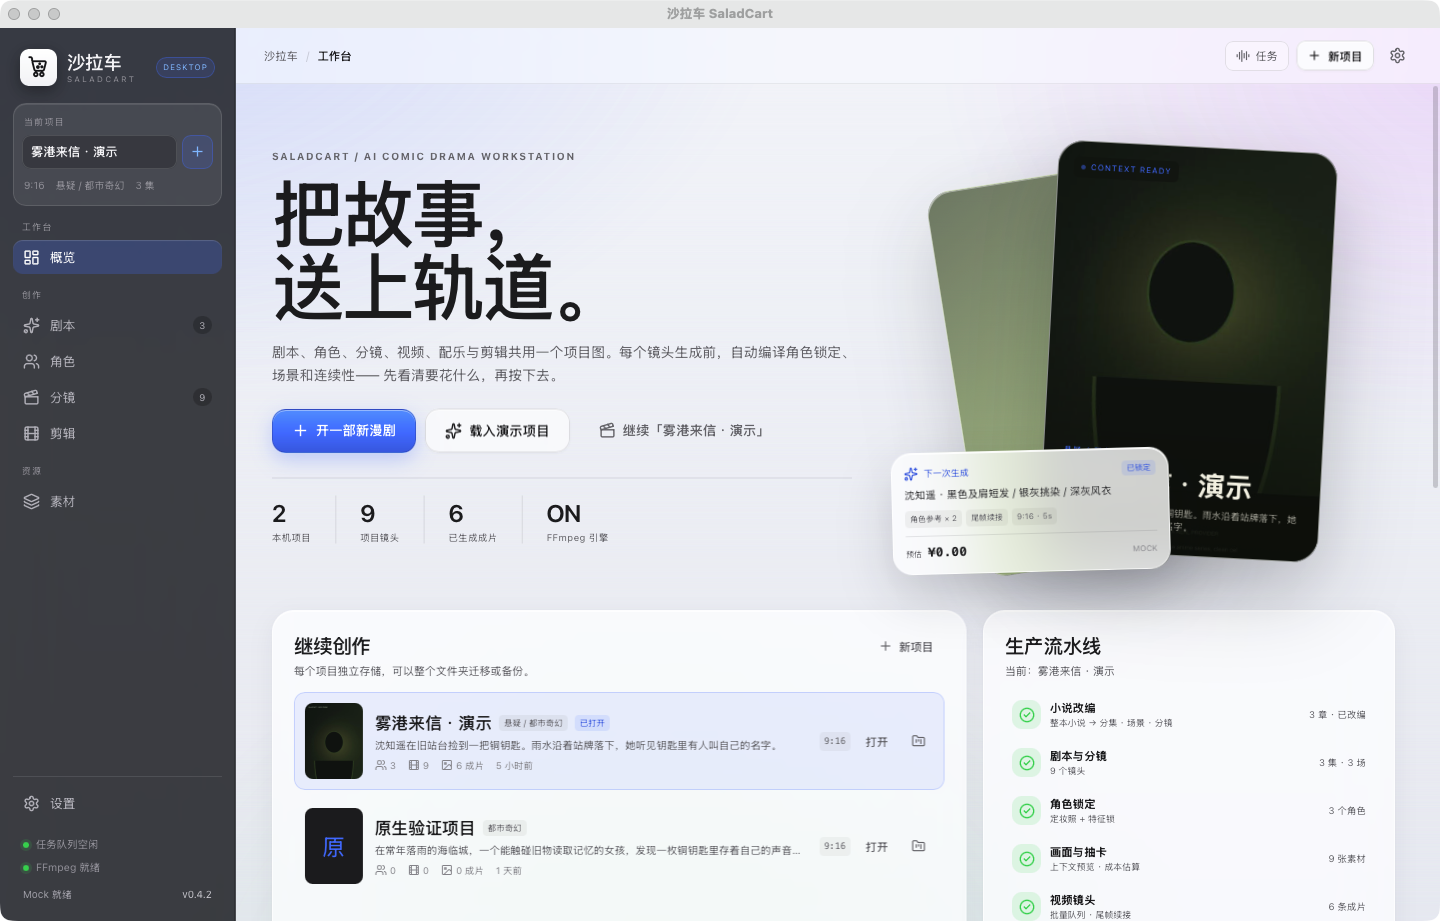
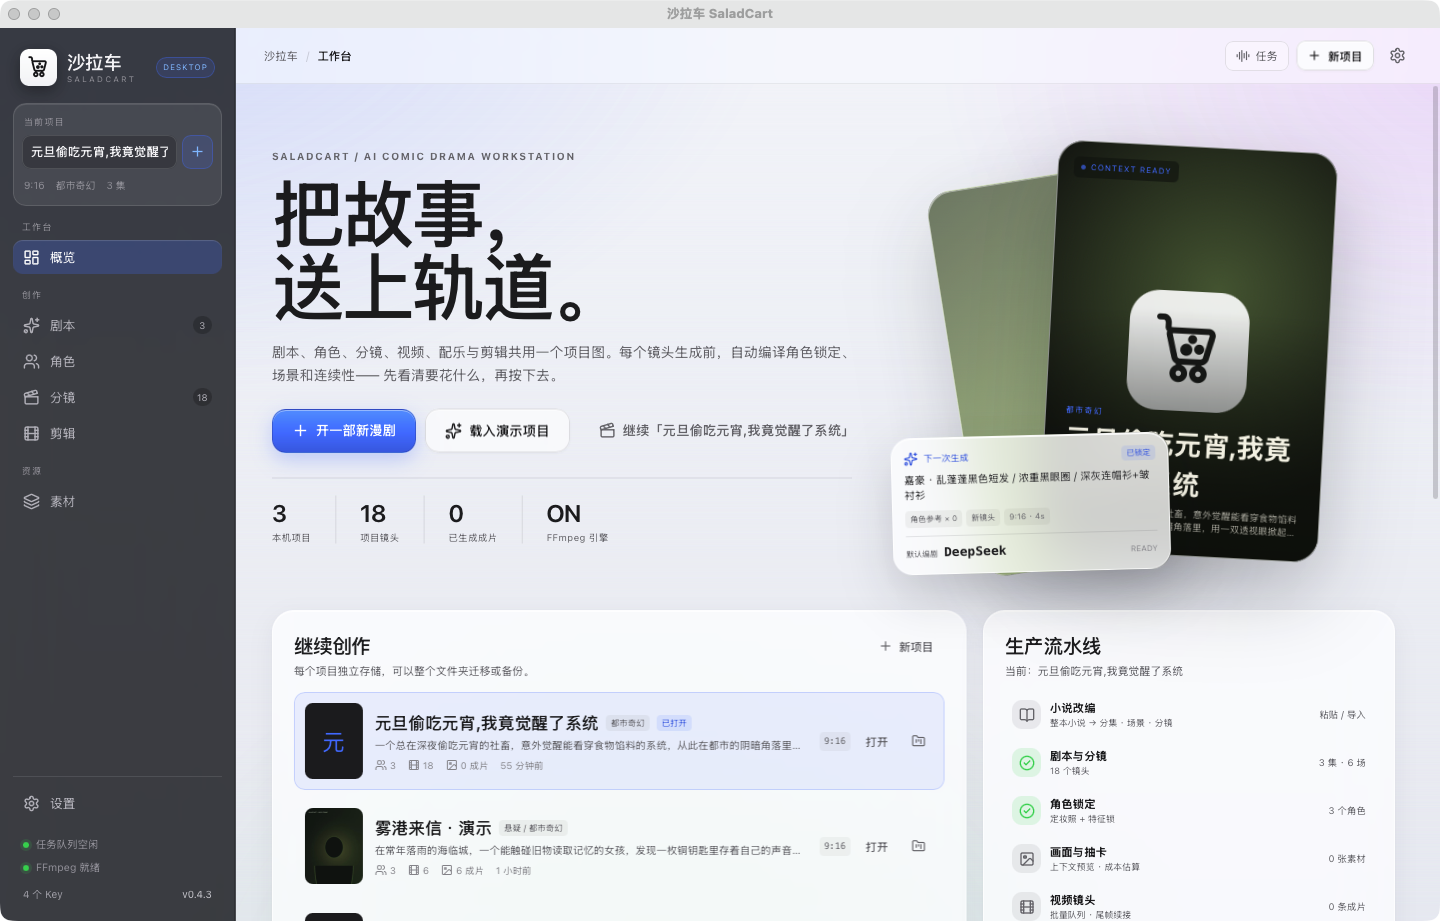
chore: release 0.4.3 with real provider routing
Record the DeepSeek live verification, Volcengine provider additions and
the refreshed 0.4.3 macOS artifact. Ark model activation and IAM music
credentials remain external setup steps.

diff --git a/src/screens/SettingsScreen.tsx b/src/screens/SettingsScreen.tsx
@@ -173,7 +173,7 @@ export function SettingsScreen() {
             </div>
             {kind === "music" ? (
               <InlineNotice tone="info">
-                曲库搜索使用 Jamendo Client ID；AI 配乐可接 Stability Audio / Replicate。Mock 会本地合成 100 BPM
+                曲库搜索使用 Jamendo Client ID；AI 配乐可接 Stability Audio / ElevenLabs / 火山引擎纯音乐。Mock 会本地合成 100 BPM
                 的原创打击乐，用来验证卡点与导出。
               </InlineNotice>
             ) : null}
@@ -317,7 +317,7 @@ export function SettingsScreen() {
               素材溯源都在本机完成。
             </p>
             <div className="about-stats">
-              <div><span>应用版本</span><strong>{system?.appVersion ?? "0.4.2"}</strong></div>
+              <div><span>应用版本</span><strong>{system?.appVersion ?? "0.4.3"}</strong></div>
               <div><span>运行平台</span><strong>{system?.platform ?? "macOS / Windows"}</strong></div>
               <div><span>项目数</span><strong>{system?.projectCount ?? 0}</strong></div>
             </div>

diff --git a/src/screens/Editor.tsx b/src/screens/Editor.tsx
@@ -623,7 +623,7 @@ export function EditorScreen() {
                 >
                   生成并应用
                 </Button>
-                <p className="muted tiny">离线 Mock 会合成一段 100 BPM 的可卡点配乐；配置 Key 后可选 Stability / ElevenLabs 生成。</p>
+                <p className="muted tiny">离线 Mock 会合成一段 100 BPM 的可卡点配乐；配置 Key 后可选 Stability / ElevenLabs / 火山引擎纯音乐。</p>
               </div>
 
               {audioAssets.length ? (

diff --git a/src/lib/mock.ts b/src/lib/mock.ts
@@ -1498,7 +1498,7 @@ async function mockInvoke<T>(cmd: string, args: Record<string, unknown> = {}): P
         ffmpegPath: "/opt/homebrew/bin/ffmpeg",
         ffmpegVersion: "ffmpeg version 8.0 (demo bridge)",
         platform: "browser demo · 原生构建请使用 Tauri",
-        appVersion: "0.4.2",
+        appVersion: "0.4.3",
         storageDir: "~/Library/Application Support/com.saladcart.studio",
         projectCount: projects.length,
         dataDir: "~/Library/Application Support/com.saladcart.studio",

diff --git a/src-tauri/src/providers/mod.rs b/src-tauri/src/providers/mod.rs
@@ -157,8 +157,8 @@ pub fn estimate_cost(provider_id: &str, kind: &str, duration_ms: i64, count: u32
         ("video", "fal-video") => 0.07 * seconds,
         ("image", "stability-image") => 0.03 * count,
         ("image", "fal-image") => 0.01 * count,
-        ("image", "ark-image") => 0.03 * count,
-        ("video", "ark-video") => 0.10 * (seconds / 5.0).ceil(),
+        ("image", "ark-image") => 0.12 * count,
+        ("video", "ark-video") => 0.23 * seconds,
         ("music", "stability-audio") => 0.08,
         ("music", "elevenlabs-music") => 0.10,
         ("music", "volc-music") => 0.002 * seconds,

diff --git a/README.md b/README.md
@@ -46,7 +46,7 @@ pnpm seed:demo      # 向本机工作区注入一部完整演示项目（剧本/
 | 编剧 / LLM | Mock、任意 OpenAI 兼容接口（OpenAI、DeepSeek、Qwen/DashScope、Ollama） |
 | 文生图 / 角色参考 | Mock、OpenAI Images、Gemini / Imagen、Replicate、ComfyUI、Stability、fal.ai、火山方舟 Seedream |
 | 视频 | Mock（本地 FFmpeg）、Kling、Runway、Luma、MiniMax、Veo、Replicate、fal.ai、火山方舟 Seedance |
-| 音乐 | Mock（本地合成 100 BPM）、Stability Audio、ElevenLabs Music；Jamendo 正版曲库搜索 |
+| 音乐 | Mock（本地合成 100 BPM）、Stability Audio、ElevenLabs Music、火山引擎 GenBGM；Jamendo 正版曲库搜索 |
 
 密钥只存在 macOS Keychain / Windows Credential Manager，不进入项目、日志或渲染层。详细配置与已知接口差异见 [docs/provider-setup.md](docs/provider-setup.md)。
 
@@ -71,10 +71,10 @@ Windows: %APPDATA%\com.saladcart.studio
 
 ## 验证
 
-当前 v0.4.2 的自动化验证：
+当前 v0.4.3 的自动化验证：
 
-- Rust（29 项自动 + 1 项 macOS TTS 手动）：项目隔离、任务读写、Mock 剧本生成、剧本落库、角色绑定、跨项目风格复制、素材导入与媒体元数据、跨项目角色原子导入、上下文编译器、关键帧作为视频首帧、镜头历史 take 与审片装配、项目预算护栏、长篇小说切章/分块改编、小说 LLM 分块契约、OpenAI Images 与 Kling 契约测试、完整演示项目、时间线自动装配、节拍吸附、节拍检测、Mock WAV、真实 FFmpeg 音视频混合渲染、原片静音混音、Windows 文件名清洗、溯源清单、系统配音。
-- 前端（6 项）：时间码/时长工具、浏览器演示桥接、上下文编译、Jamendo 曲库搜索、节拍分析/卡点。
+- Rust（32 项自动 + 2 项手动/外部依赖测试）：项目隔离、任务读写、Mock 剧本生成、剧本落库、角色绑定、跨项目风格复制、素材导入与媒体元数据、跨项目角色原子导入、上下文编译器、关键帧作为视频首帧、镜头历史 take 与审片装配、项目预算护栏、长篇小说切章/分块改编、小说 LLM 分块契约、OpenAI Images / Kling / 火山方舟 Seedream / Seedance / GenBGM 契约测试、完整演示项目、时间线自动装配、节拍吸附、节拍检测、Mock WAV、真实 FFmpeg 音视频混合渲染、原片静音混音、Windows 文件名清洗、溯源清单、系统配音、DeepSeek 实时剧本生成。
+- 前端（10 项）：时间码/时长工具、浏览器演示桥接、上下文编译、Jamendo 曲库搜索、节拍分析/卡点、真实模型默认路由。
 - 发布自检：macOS 打包 `.app` 执行 `saladcart --selftest` 成功（4 片段、19 秒 MP4、423,595 字节）；Windows 便携包同样带自检。
 - 手动：Chromium 走查 Dashboard、剧本、角色、分镜、剪辑、音乐、设置；原生 `.app` 走查演示项目、3 章小说改编为 3 集 9 镜、历史 take 切换、审片装配、素材导入对话框、项目预算、批量生成 6 条系统配音、V1 配音轨，并实际导出 19 秒 1080×1920 H.264/AAC 成片。
 - 跨平台：GitHub Actions 矩阵包含 macOS arm64 / x64 与 Windows x64 构建，测试使用随包 FFmpeg sidecar；Windows 目标已通过 `cargo xwin check` 编译检查，但未在 Windows 真机运行；未配置 Apple/Windows 签名证书，因此产物为未签名版本。
@@ -86,7 +86,7 @@ SALADCART_FFMPEG=$(command -v ffmpeg) cargo test --manifest-path src-tauri/Cargo
 
 ## 发布状态
 
[2 lines of base64/hex data omitted]
 
 ## 产品研究
 

diff --git a/docs/release-0.4.3.md b/docs/release-0.4.3.md
@@ -1,0 +1,63 @@
+# SaladCart 0.4.3 — release notes
+
+Release date: 2026-10-29
+Source: `main` at build time (real provider routing + Volcengine providers)
+Status: **unsigned macOS prerelease**. Windows packaging intentionally skipped.
+
+## Artifact
+
+| Platform | File | Size | SHA-256 |
+| --- | --- | --- | --- |
[1 lines of base64/hex data omitted]
+
+The DMG is **not signed or notarized**. On first launch use right-click → **Open**, or
+System Settings → Privacy & Security → **Open Anyway**.
+
+## Changes since 0.4.2
+
+- **Real provider routing**: configured real LLMs are preferred over the offline mock;
+  the New Project dialog has a 编剧模型 selector, and the Script dialog only offers
+  enabled providers. Saving an LLM key promotes it when the default is still mock.
+- **Dashboard truthfulness**: the hard-coded 沈知遥 / `MOCK` context card was replaced by
+  the current project's first character, next shot, aspect/duration and default model.
+- **Volcengine Ark providers**:
+  - Image: Seedream 5.0 Flash (`doubao-seedream-5-0-flash-260915`) via
+    `POST /api/v3/images/generations`; 2K sizes, reference images, url/b64 responses.
+  - Video: Seedance 2.0 Mini (`doubao-seedance-2-0-mini-260615`) via
+    `POST /api/v3/contents/generations/tasks` + task polling; text/image inputs.
+  - Music: GenBGM v5.0 via the SAMI OpenAPI with Volcengine HMAC-SHA256 signing
+    (`sami` / `cn-north-1`), GenBGM + QueryTask, `ResultUrl` download.
+- Ark model-not-activated 404s now surface a Chinese activation hint instead of the raw
+  provider string. GenBGM’s key field explains that it needs `AccessKey:SecretKey`.
+- Updated approximate pricing estimates for Ark Flash/Mini/GenBGM.
+- Version bumped to 0.4.3 across package, Cargo, Tauri config, mock bridge and Settings.
+
+## Verification
+
+- `pnpm test` — **10/10** frontend tests passed (provider routing included).
+- `cargo test` — **32 automated Rust tests passed**, 2 ignored/manual tests
+  (macOS TTS, live DeepSeek credits).
+- Live DeepSeek: script generation completed in 16.8s and returned a structured 3-act
+  episode (`凌晨四点的失物便利店`); the user project was regenerated with 3 episodes /
+  6 scenes / 18 shots and 3 real characters.
+- Ark live probe: request reached the Ark API and authenticated; the account returned
+  `not activated` for `doubao-seedream-5-0-flash-260915`. No image was produced until the
+  model is activated in the Ark console.
+- GenBGM live attempt: the saved key is not an IAM `AccessKey:SecretKey`, so the adapter
+  returned a clear missing-credential error; contract tests cover signing, submit and
+  polling.
+- `pnpm build` and `pnpm tauri build` passed; `.app` (46.87 MiB) and DMG (21.87 MiB)
+  built. Native 0.4.3 dashboard verified with the dynamic context card and `v0.4.3`.
+
+## Requirements and caveats
+
+- Activate **Seedream 5.0 Flash** and **Seedance 2.0 Mini** in the Volcengine Ark console
+  before generating; activation is per model.
+- GenBGM is not the Ark API: create an IAM AccessKey/SecretKey and paste it as
+  `AccessKey:SecretKey` in Settings → 音乐 → 火山引擎 纯音乐.
+- The project owner regenerated the previously mock-filled project; the demo project
+  remains separate and can be archived without affecting user projects.
+- macOS artifact is unsigned; Windows packaging is skipped by request.
+- No public GitHub Release was created (no `gh` authentication in this workspace).
+
+See [release-0.4.2.md](release-0.4.2.md) for the prior icon release.
